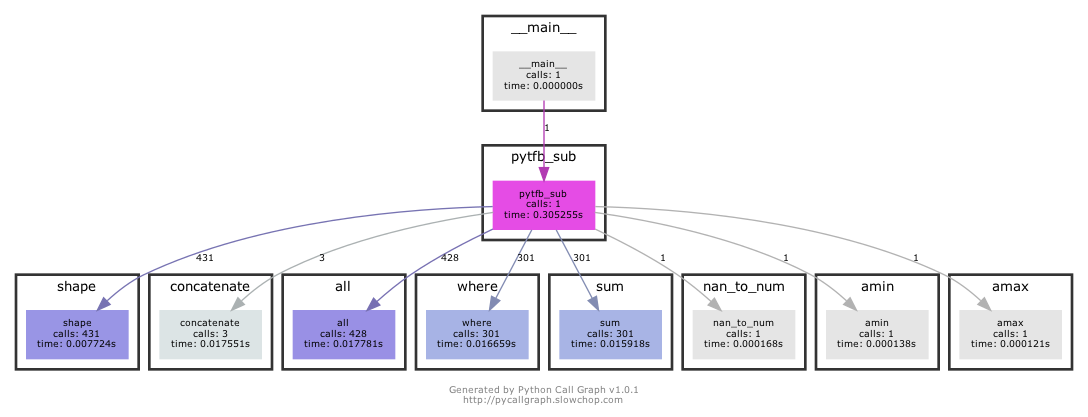
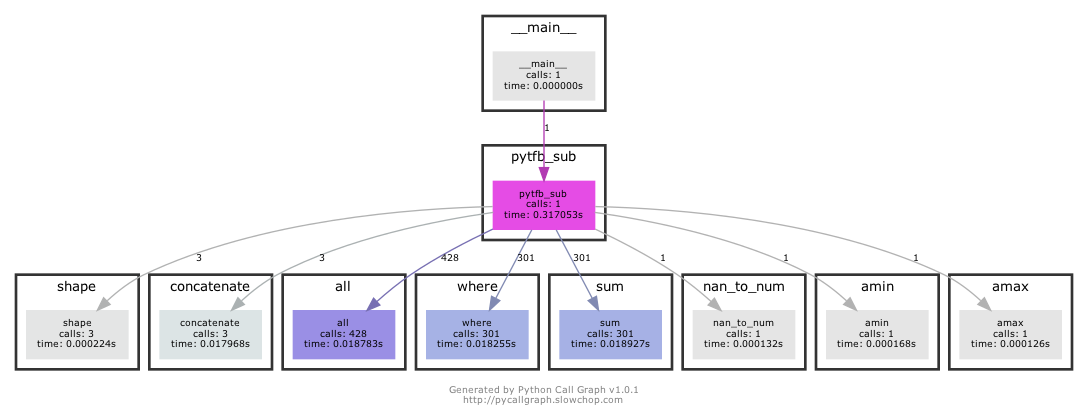
some speedup

diff --git a/astropy_stark/mytfb_quick.py b/astropy_stark/mytfb_quick.py
@@ -4,9 +4,9 @@ import astropy_stark.mytemp0 as mt0
 import scipy.stats as ss
 #from scipy import signal
 
-#from pycallgraph import PyCallGraph
-#from pycallgraph.output import GraphvizOutput
-#from pycallgraph import Config
+from pycallgraph import PyCallGraph
+from pycallgraph.output import GraphvizOutput
+from pycallgraph import Config
 
 twopi = np.pi * 2
 deg2rad = np.pi / 180
@@ -120,7 +120,8 @@ def pytfb_sub(taus, embh, emdot, wavang, deginc, t0vin=-1, t0iin=-1, alpha_visc=
                 # now azimuth grid
                 azwidth = drad / radlo
                 azgrid = np.arange(0.0, twopi, azwidth)
-                naz = np.shape(azgrid)[0]
+                naz= int(twopi/azwidth)+1
+                #naz1 = np.shape(azgrid)[0]
                 nazsub1 = naz - 1
 
                 raz = np.random.uniform(radlo, radhi, nazsub1)
@@ -256,12 +257,15 @@ def pytfb_sub(taus, embh, emdot, wavang, deginc, t0vin=-1, t0iin=-1, alpha_visc=
         return (psis)
 
 
-#
 
 
 
 
 if __name__ == '__main__':
+
+
+
+
     taugrid = np.arange(0, 30.1, 0.1)
     embh = 1.e7
     emdot = 1.0
@@ -293,31 +297,31 @@ if __name__ == '__main__':
     )
 
 
-    #config = Config(max_depth=20)
-    #graphviz = GraphvizOutput(output_file="profile_mytfbquick.png")
-    #with PyCallGraph(output=graphviz, config=config):
-    #    psi = pytfb_sub(
-    #        taugrid,
-    #        embh,
-    #        emdot,
-    #        wavnow,
-    #        deginc,
-    #        t0vin=-1,
-    #        t0iin=-1,
-    #        alpha_visc=-0.75,
-    #        hxsch=3.0,
-    #        alpha_irad=-0.75,
-    #        eta=0.1,
-    #        rlosch=3.0,
-    #        norm=1,
-    #        quick=1,
-    #        xstop=15,
-    #        udlnr=0.01,
-    #        thcent=1.0,
-    #        thfwhm=0.2,
-    #        oldsmooth=0,
-    #        newsmooth=1,
-    #        diagnose=0,
-    #    )
+    config = Config(max_depth=20)
+    graphviz = GraphvizOutput(output_file="profile_mytfbquick_fast.png")
+    with PyCallGraph(output=graphviz, config=config):
+        psi = pytfb_sub(
+            taugrid,
+            embh,
+            emdot,
+            wavnow,
+            deginc,
+            t0vin=-1,
+            t0iin=-1,
+            alpha_visc=-0.75,
+            hxsch=3.0,
+            alpha_irad=-0.75,
+            eta=0.1,
+            rlosch=3.0,
+            norm=1,
+            quick=1,
+            xstop=15,
+            udlnr=0.01,
+            thcent=1.0,
+            thfwhm=0.2,
+            oldsmooth=0,
+            newsmooth=1,
+            diagnose=0,
+        )
 #
 #
